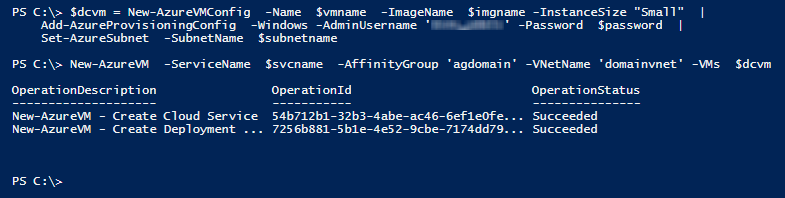
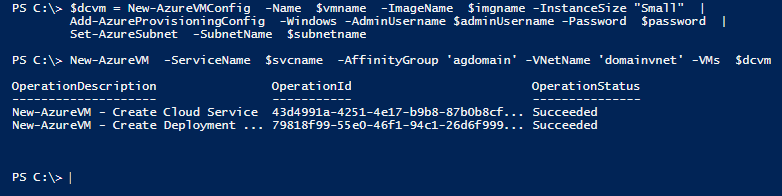
Improved script in exercise 2. Updated screenshot

diff --git a/HOL.md b/HOL.md
@@ -266,7 +266,7 @@ Exercise 2 contains 1 task:
 
 1. In the PowerShell ISE window, type or copy the following commands.
 
-	> **Note:** Make sure to replace [YOUR-SERVICE-NAME] in the $svcname variable below with a new name to create a new hosted service. Additionally, replace the *AdminUsername* parameter placeholder with a username of your choice.
+	> **Note:** Make sure to replace [YOUR-SERVICE-NAME] in the $svcname variable below with a new name to create a new hosted service. Additionally, replace the [YOUR-ADMIN-USERNAME] and  [YOUR-ADMIN-PASSWORD] placeholders with credentials of your choice.
 
 	````PowerShell
 	# Defines image name
@@ -275,17 +275,18 @@ Exercise 2 contains 1 task:
 	# Defines configuration settings
 	$vmname = "DC01"
 	$svcname = "[YOUR-SERVICE-NAME]"
-	$password = "Passw0rd!"
+	$adminUsername = "[YOUR-ADMIN-USERNAME]"
+	$password = "[YOUR-ADMIN-PASSWORD]"
 
 	# Defines network settings
 	$subnetname = "Subnet-1"
 
 	# Defines VM configuration, including size and subnet 
 	$dcvm = New-AzureVMConfig  -Name  $vmname  -ImageName  $imgname -InstanceSize "Small"  |
-		Add-AzureProvisioningConfig  -Windows -AdminUsername '[YOUR-USERNAME]' -Password  $password  |
+		Add-AzureProvisioningConfig  -Windows -AdminUsername $adminUsername -Password  $password  |
 		Set-AzureSubnet  -SubnetName  $subnetname
 
-	# Creates new VM in existing hosted service
+	# Creates new VM in the hosted service
 	New-AzureVM  -ServiceName  $svcname  -AffinityGroup 'agdomain' -VNetName 'domainvnet' -VMs  $dcvm
 	````
 
